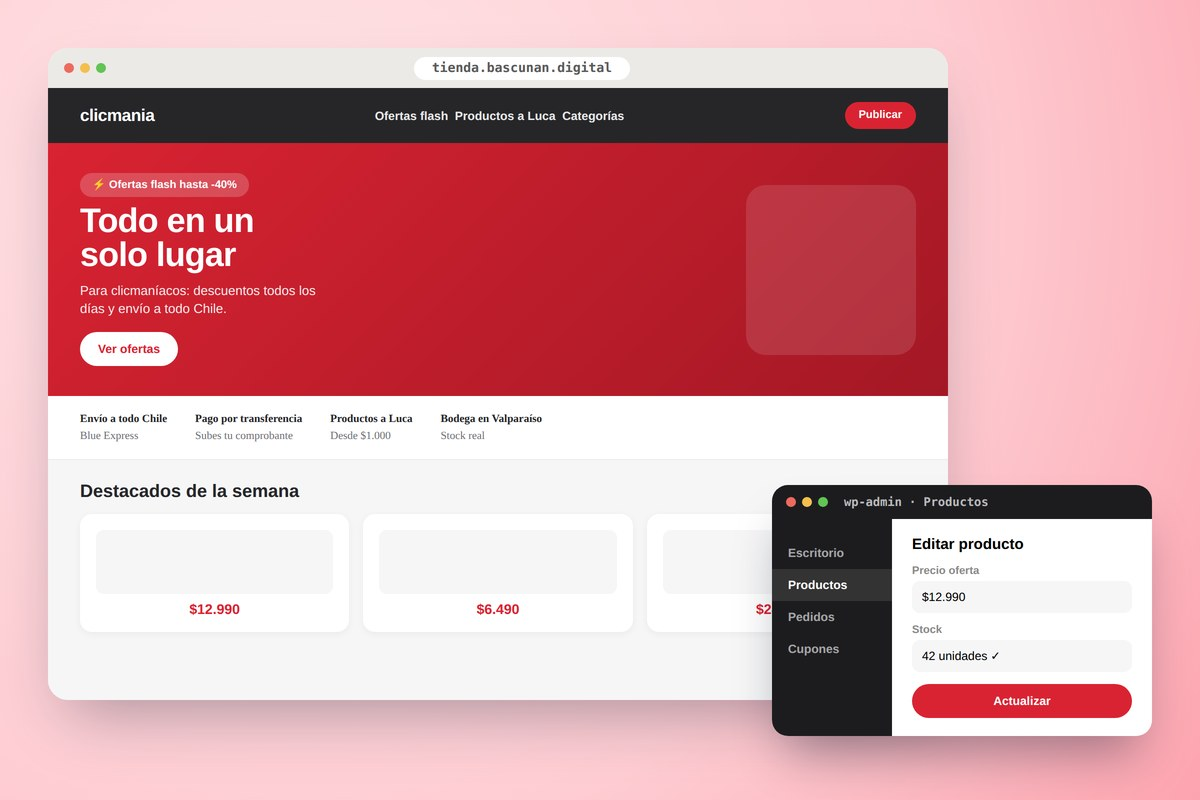
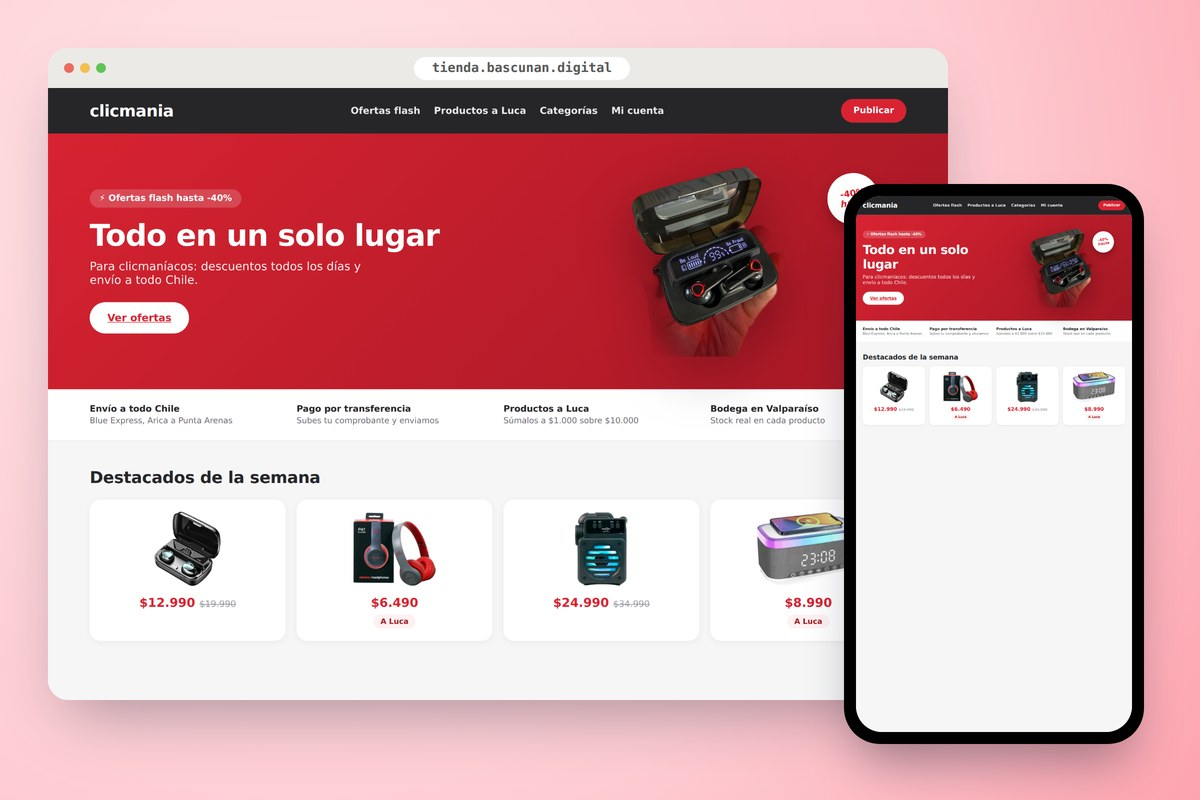
Keep only the 4 sent projects, show real home screens instead of mockups
- CASOS now only has ismael, busca-arriendo, clicmania and alivida (removed
  valeria/dav/notas per request).
- Replaces the hand-built "wp-admin panel" composites with real captures
  of each project's actual home page: a desktop screenshot in the browser
  chrome and a mobile screenshot in the phone frame, both from the real
  index.html in each project's zip (clicmania's static mockup stands in
  for its WordPress home, since that one can't be rendered without a full
  WP+MySQL stack).

Claude-Session: https://claude.ai/code/session_01MZEAGUTvtBc5rpEyf5MWoM

diff --git a/landing/dist/index.html b/landing/dist/index.html
@@ -927,18 +927,6 @@
     ];
 
     var CASOS = [
-      { id: 'valeria', nombre: 'Valeria Estética Integral', tipo: 'PWA + reservas', resumen: 'Reservas online con panel instalable en el celular y SEO local desde el día 1.', metrica: '4.9/5', metricaLabel: '38 reseñas en Google', estrellas: true, stack: ['PHP', 'MySQL', 'PWA'],
-        desafio: 'Un centro de estética necesitaba que sus clientas pudieran reservar solas y administrar la agenda desde el celular, sin depender de mensajes y llamadas.',
-        solucion: 'Diseñé y programé un motor de reservas full-stack a medida, con un panel de administración PWA que se instala como app en el teléfono, más datos estructurados para SEO local.',
-        resultado: 'Una experiencia de reserva simple que respaldan 38 reseñas en Google con calificación 4.9/5.' },
-      { id: 'dav', nombre: 'DAV Valparaíso', tipo: 'WordPress a medida', resumen: 'Plan de gobernanza digital y tema WordPress a medida para publicar sin depender de nadie.', metrica: 'CPT + ACF', metricaLabel: 'Contenido autoadministrable', stack: ['WordPress', 'CPT', 'ACF'],
-        desafio: 'La institución había perdido el control de algunas de sus cuentas digitales y publicar contenido dependía de terceros.',
-        solucion: 'Definí un plan de gobernanza digital (roles, accesos y respaldos), recuperé las cuentas institucionales y desarrollé un tema WordPress a medida con Custom Post Types.',
-        resultado: 'El equipo recuperó el control de su presencia digital y publica su contenido de forma autónoma.' },
-      { id: 'notas', nombre: 'Notas Libro de Clases', tipo: 'SaaS multi-tenant', resumen: 'Plataforma educativa para varios colegios, con los datos de cada uno completamente aislados.', metrica: 'JWT + RBAC', metricaLabel: 'Datos aislados por colegio', stack: ['NestJS', 'Prisma', 'PostgreSQL'],
-        desafio: 'Construir una sola plataforma para muchos colegios, donde cada uno vea solo su información y cada usuario solo lo que su rol le permite.',
-        solucion: 'Arquitectura multi-tenant con aislamiento de datos por colegio, autenticación con JWT y control de acceso por roles (RBAC), más una interfaz pensada para docentes.',
-        resultado: 'Una plataforma escalable y segura, lista para sumar colegios sin duplicar sistemas.' },
       { id: 'ismael', nombre: 'Ismael Allendes', tipo: 'Identidad + WordPress', resumen: 'Marca, identidad y sitio editorial para un artista visual, con sus obras autoadministrables.', metrica: 'CPT + ACF', metricaLabel: 'Obras autoadministrables', stack: ['Identidad de marca', 'WordPress', 'CPT'], demo: 'ismaelallendes.bascunan.digital',
         desafio: 'Un artista visual y arquitecto necesitaba una marca propia y un sitio editorial para mostrar sus acuarelas, con la posibilidad de sumar obras nuevas él mismo.',
         solucion: 'Diseñé su identidad de marca y un sitio editorial de principio a fin, con tipografía como protagonista, sobre un panel autoadministrable en WordPress para cargar cada obra con su ficha técnica.',

diff --git a/landing/index.html b/landing/index.html
@@ -943,18 +943,6 @@
     ];
 
     var CASOS = [
-      { id: 'valeria', nombre: 'Valeria Estética Integral', tipo: 'PWA + reservas', resumen: 'Reservas online con panel instalable en el celular y SEO local desde el día 1.', metrica: '4.9/5', metricaLabel: '38 reseñas en Google', estrellas: true, stack: ['PHP', 'MySQL', 'PWA'],
-        desafio: 'Un centro de estética necesitaba que sus clientas pudieran reservar solas y administrar la agenda desde el celular, sin depender de mensajes y llamadas.',
-        solucion: 'Diseñé y programé un motor de reservas full-stack a medida, con un panel de administración PWA que se instala como app en el teléfono, más datos estructurados para SEO local.',
-        resultado: 'Una experiencia de reserva simple que respaldan 38 reseñas en Google con calificación 4.9/5.' },
-      { id: 'dav', nombre: 'DAV Valparaíso', tipo: 'WordPress a medida', resumen: 'Plan de gobernanza digital y tema WordPress a medida para publicar sin depender de nadie.', metrica: 'CPT + ACF', metricaLabel: 'Contenido autoadministrable', stack: ['WordPress', 'CPT', 'ACF'],
-        desafio: 'La institución había perdido el control de algunas de sus cuentas digitales y publicar contenido dependía de terceros.',
-        solucion: 'Definí un plan de gobernanza digital (roles, accesos y respaldos), recuperé las cuentas institucionales y desarrollé un tema WordPress a medida con Custom Post Types.',
-        resultado: 'El equipo recuperó el control de su presencia digital y publica su contenido de forma autónoma.' },
-      { id: 'notas', nombre: 'Notas Libro de Clases', tipo: 'SaaS multi-tenant', resumen: 'Plataforma educativa para varios colegios, con los datos de cada uno completamente aislados.', metrica: 'JWT + RBAC', metricaLabel: 'Datos aislados por colegio', stack: ['NestJS', 'Prisma', 'PostgreSQL'],
-        desafio: 'Construir una sola plataforma para muchos colegios, donde cada uno vea solo su información y cada usuario solo lo que su rol le permite.',
-        solucion: 'Arquitectura multi-tenant con aislamiento de datos por colegio, autenticación con JWT y control de acceso por roles (RBAC), más una interfaz pensada para docentes.',
-        resultado: 'Una plataforma escalable y segura, lista para sumar colegios sin duplicar sistemas.' },
       { id: 'ismael', nombre: 'Ismael Allendes', tipo: 'Identidad + WordPress', resumen: 'Marca, identidad y sitio editorial para un artista visual, con sus obras autoadministrables.', metrica: 'CPT + ACF', metricaLabel: 'Obras autoadministrables', stack: ['Identidad de marca', 'WordPress', 'CPT'], demo: 'ismaelallendes.bascunan.digital',
         desafio: 'Un artista visual y arquitecto necesitaba una marca propia y un sitio editorial para mostrar sus acuarelas, con la posibilidad de sumar obras nuevas él mismo.',
         solucion: 'Diseñé su identidad de marca y un sitio editorial de principio a fin, con tipografía como protagonista, sobre un panel autoadministrable en WordPress para cargar cada obra con su ficha técnica.',
